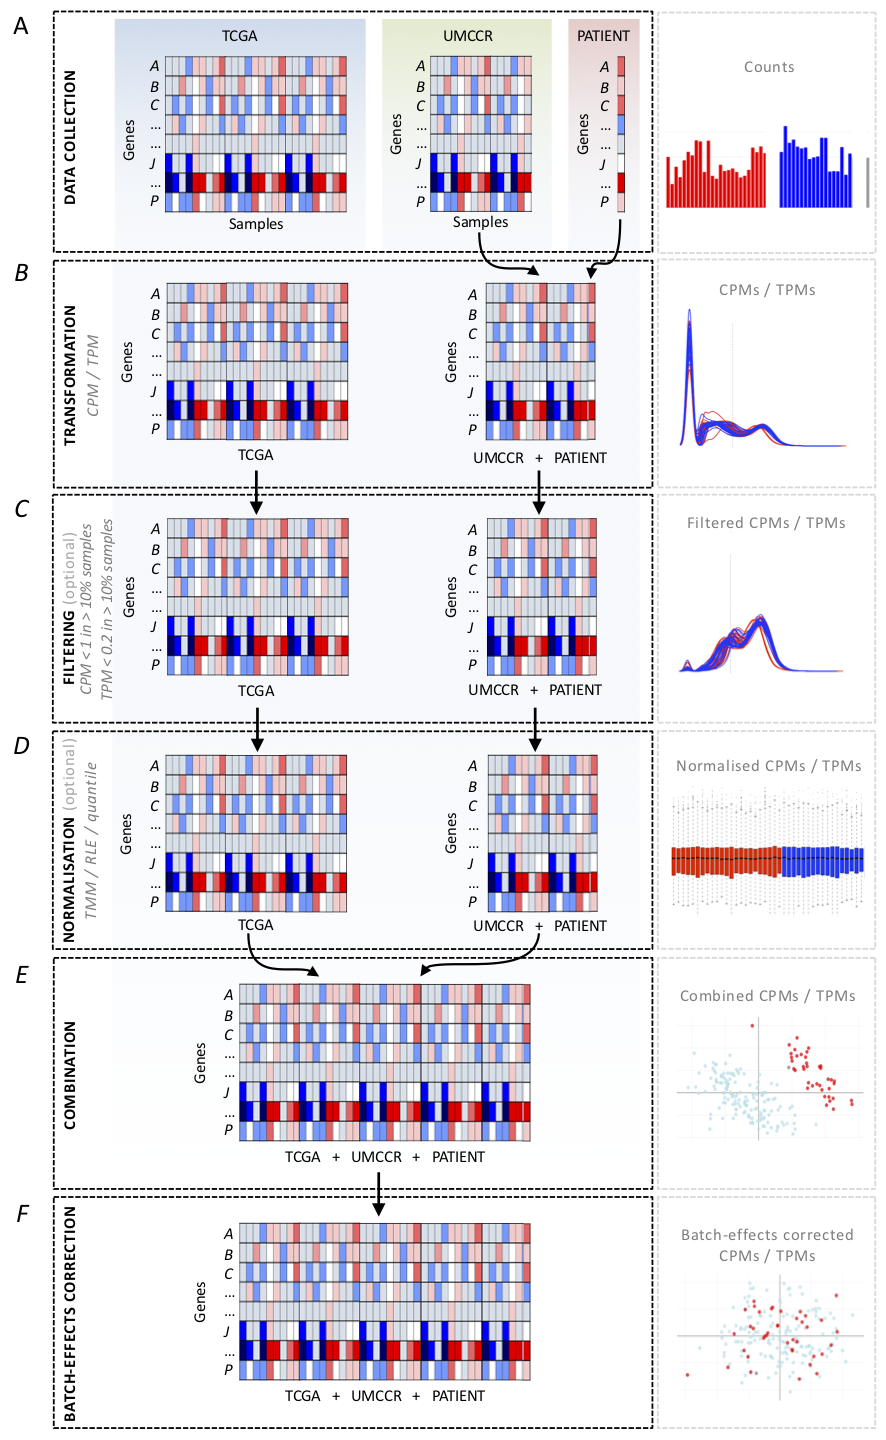
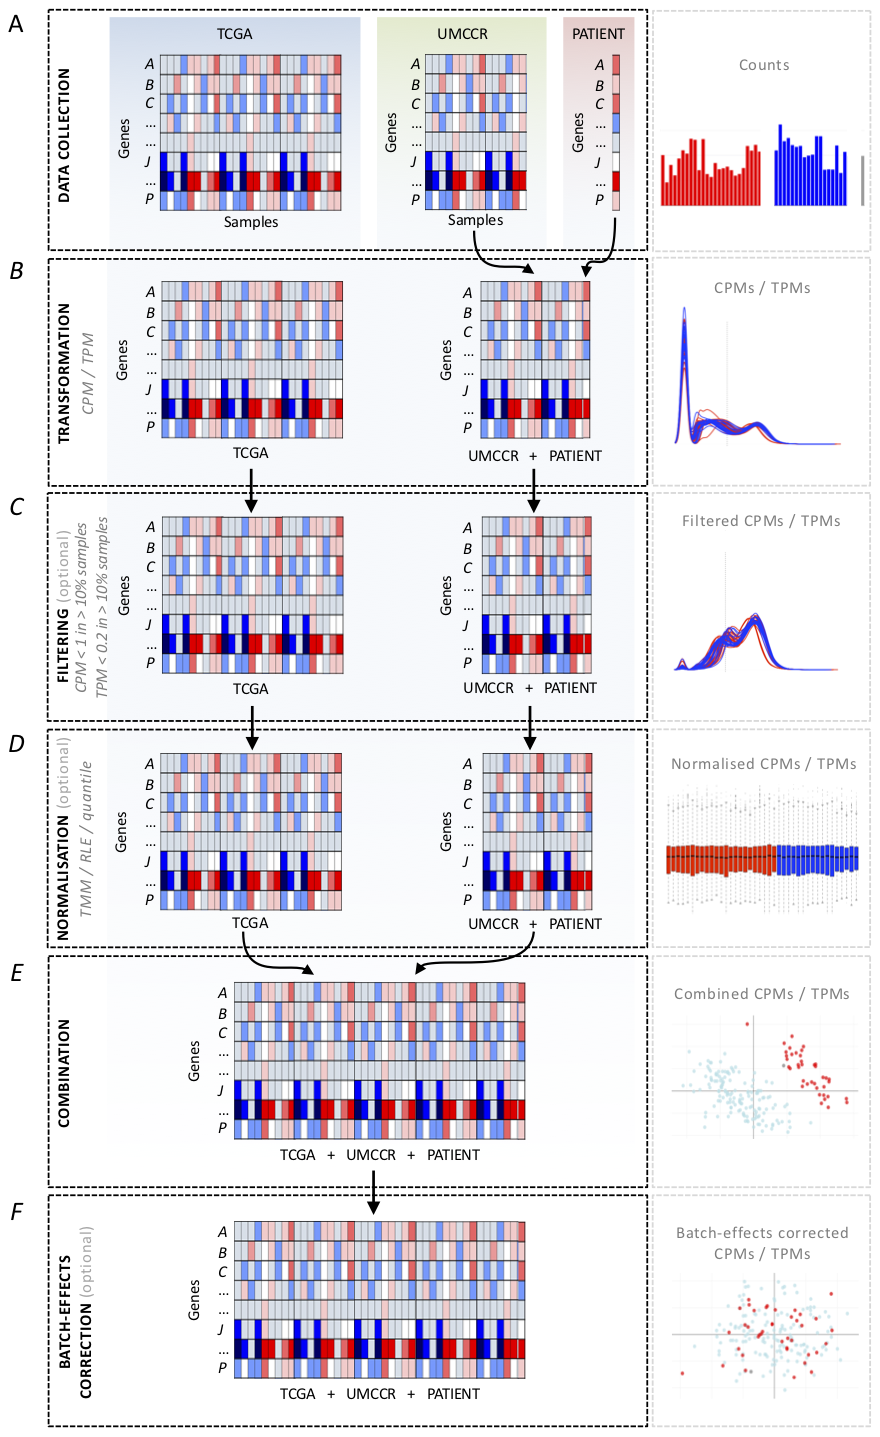
Add option to perform batch-effects correction step

diff --git a/README.md b/README.md
@@ -164,6 +164,7 @@ Argument | Description | Required
 --report_dir | Desired location for the report | **Yes**
 --transform | Transformation method for converting read counts. Available options are: `CPM` (defualt) and `TPM` | No
 --norm | Normalisation method. Available options are: `TMM` (defualt), `TMMwzp`, `RLE`, `upperquartile` or `none` for *CPM-transformed* data, and `quantile` (defualt) or `none` for *TPM-transformed* data | No
+--batch_rm | Remove batch-associated effects between datasets. Available options are: `TRUE` (defualt) and `FALSE`  | No
 --filter | Filtering out low expressed genes. Available options are: `TRUE` (defualt) and `FALSE` | No
 --log | Log (base 2) transform data before normalisation. Available options are: `TRUE` (defualt) and `FALSE` | No
 --scaling | Apply [`gene-wise`](img/Z-score_transformation_gene_wise.png) (default) or [`group-wise`](img/Z-score_transformation_group_wise.png) data scaling | No
